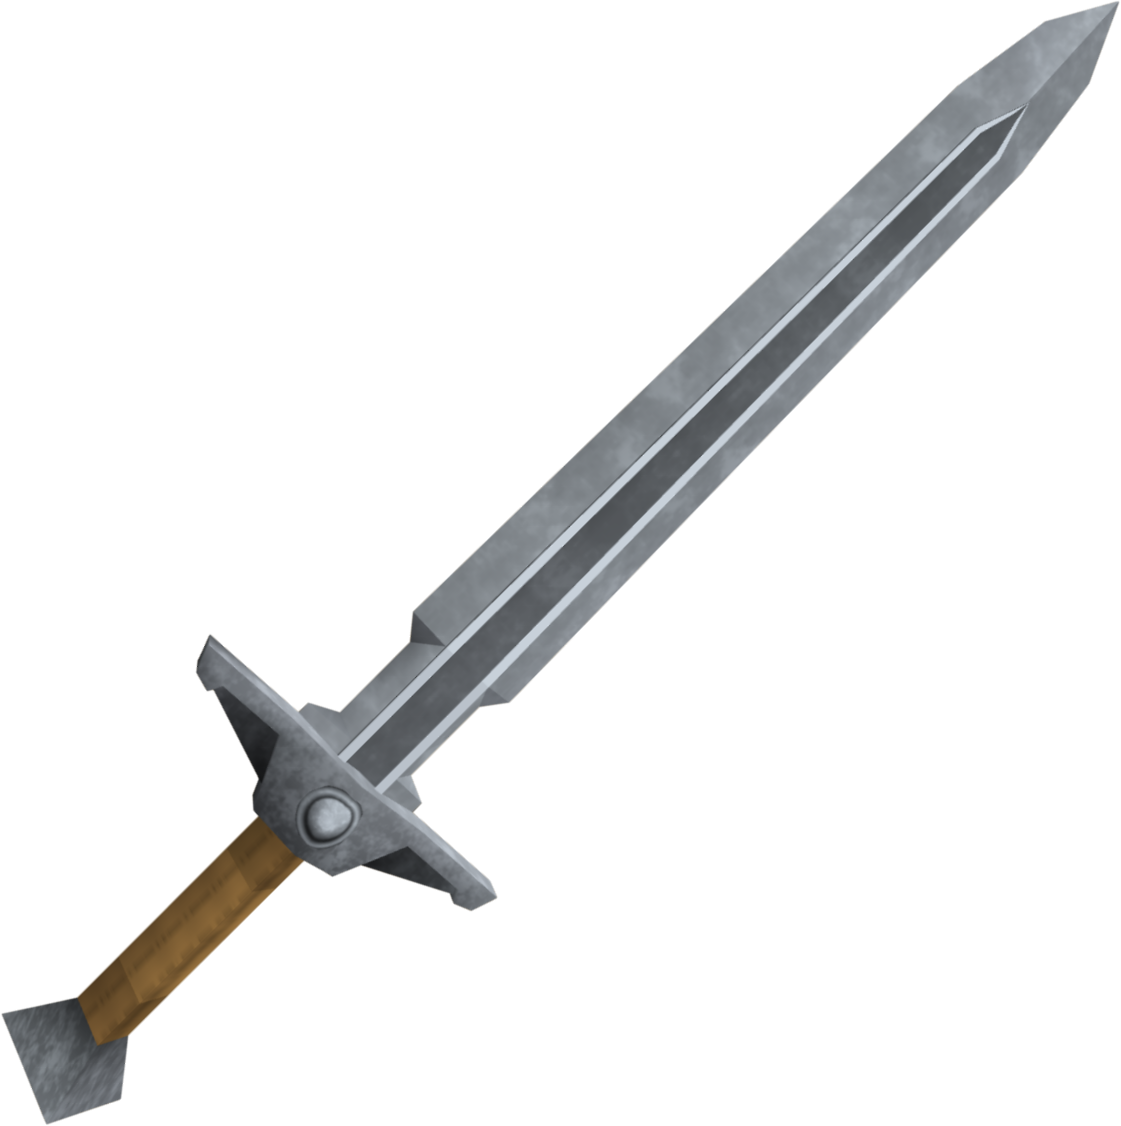
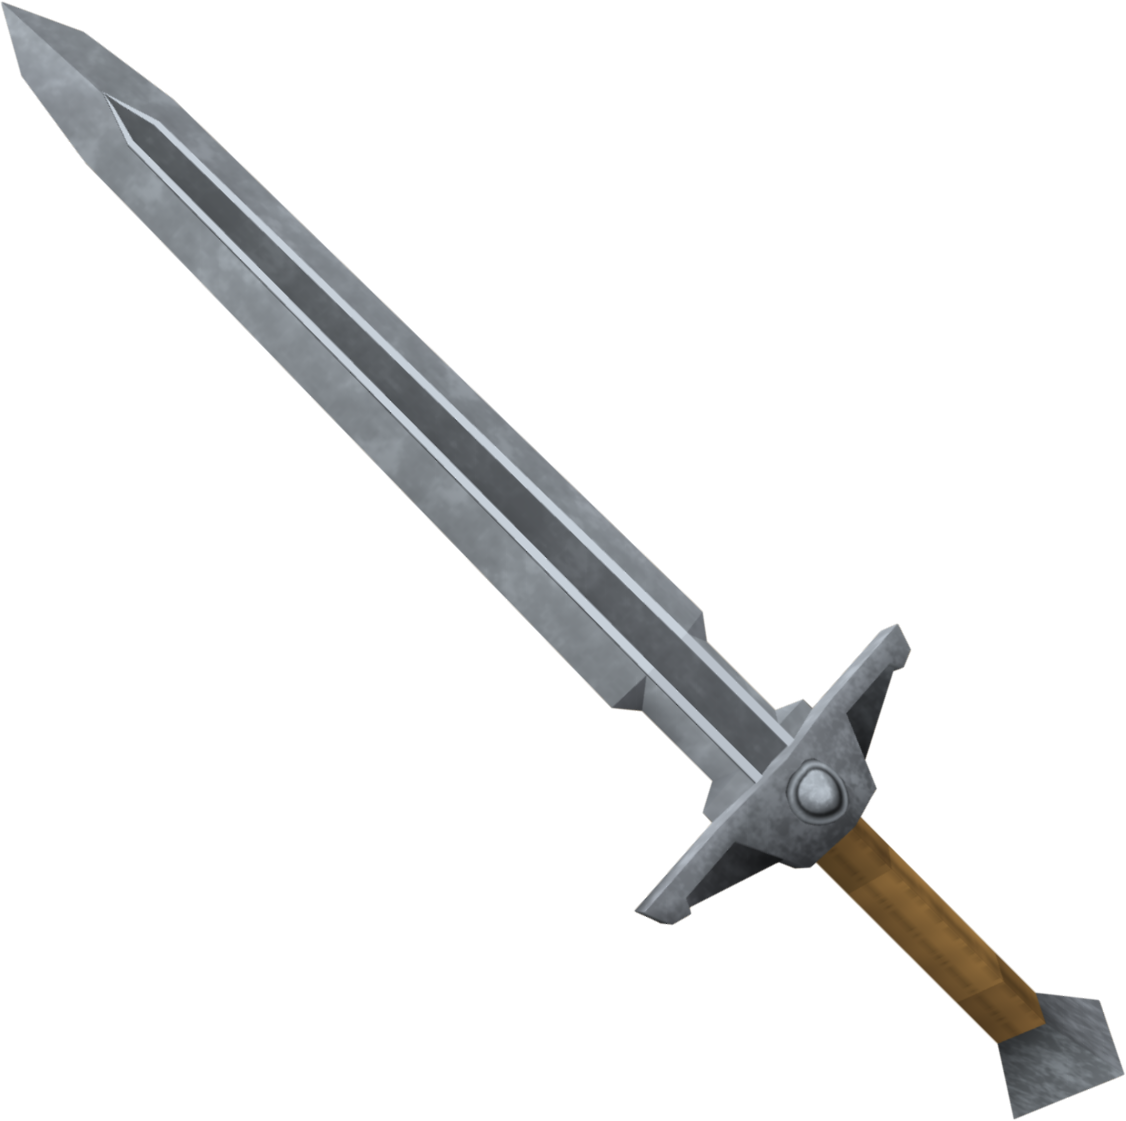
Sword now faces the correct direction

Changed region(s): [[0.0, 0.0, 0.9991, 0.9991]]

diff --git a/Iteration1Code/src/model/TreasureChest.java b/Iteration1Code/src/model/TreasureChest.java
@@ -7,10 +7,12 @@ public class TreasureChest extends InteractiveItem {
 	private int reward;
 	private boolean actionDone;
 	
+	
 	public TreasureChest(){
 		state=0;
 		reward=1000;
 		actionDone=false;
+		ITEM_NAME = "Treasure Chest";
 	}
 	
 	public boolean action(Avatar avatar) {
@@ -47,5 +49,10 @@ public class TreasureChest extends InteractiveItem {
 	
 	public String toString() {
 		return "Item:TreasureChest:" + this.state;
+	}
+
+	@Override
+	public String getItemName() {
+		return this.ITEM_NAME;
 	}
 }

diff --git a/Iteration1Code/src/model/InteractiveItem.java b/Iteration1Code/src/model/InteractiveItem.java
@@ -1,5 +1,6 @@
 package model;
 
 public abstract class InteractiveItem implements Item {
+	protected String ITEM_NAME;
 	public abstract boolean action(Avatar avatar);
 }
